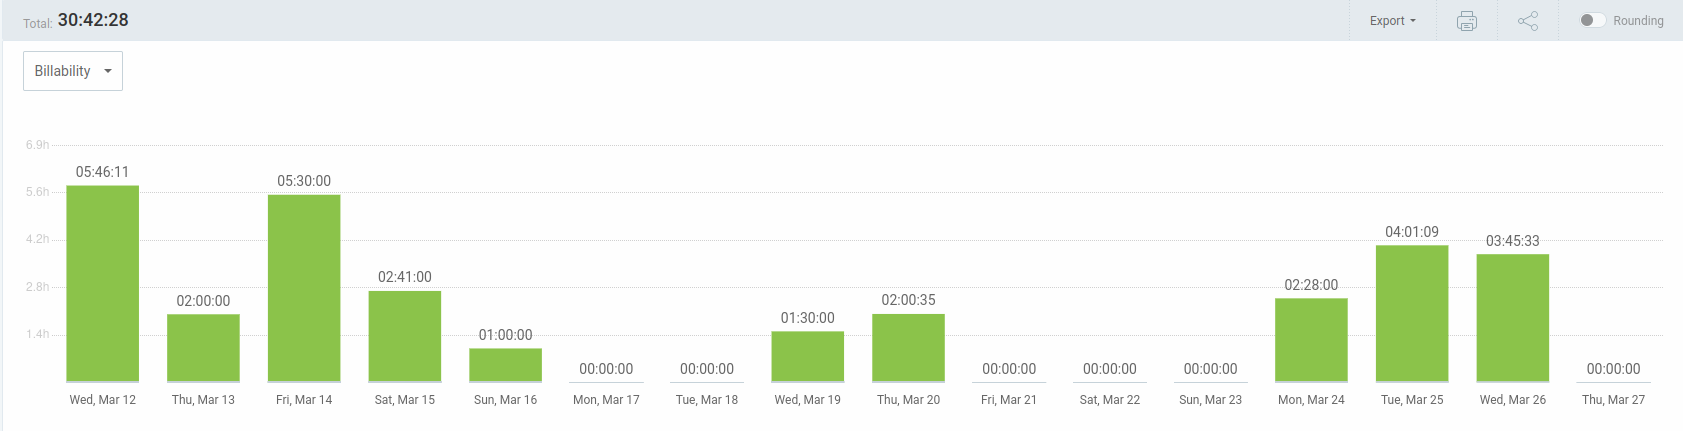
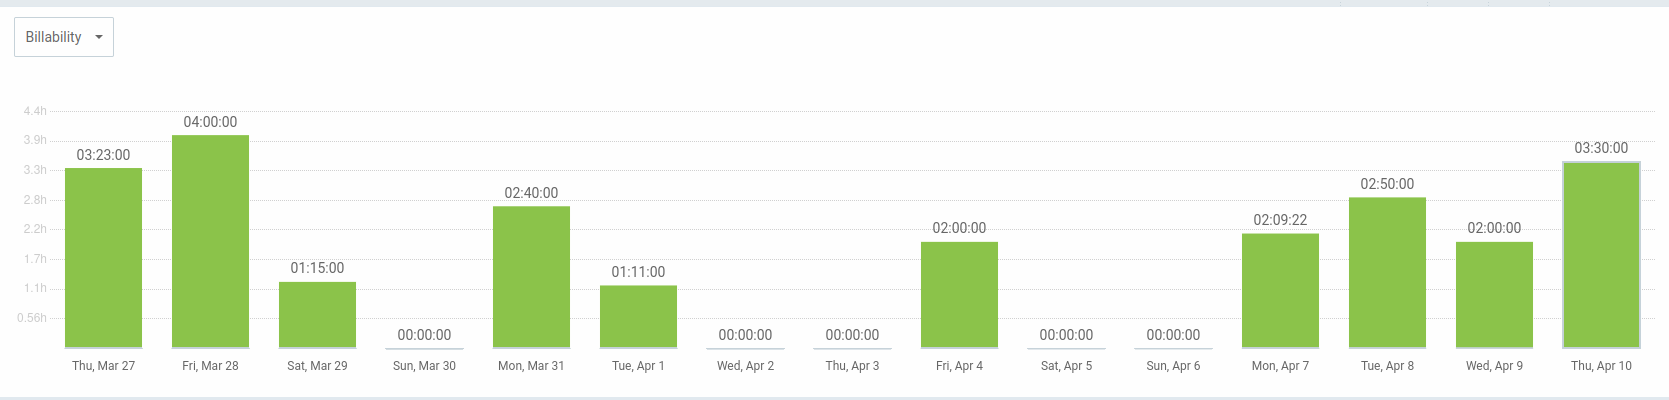
dosc(IA/Time): add docs for Sprint_3 Dani

diff --git a/docs/Sprint_3/AIusage.md b/docs/Sprint_3/AIusage.md
@@ -59,6 +59,7 @@
 |-------------|---------------|-------------------------------|-------------------------|
 | 07/04/2025  | v 1.0         | Versión inicial del documento | Daniel Flores de Francisco |
 | 08/04/2025  | v 1.1         | Informe de Luis | Luis Mellado Díaz |
+| 08/04/2025  | v 1.2         | Informe de Dani | Daniel Flores de Francisco |
 
 
 ---
@@ -178,13 +179,12 @@ Listar los prompts que fueron más efectivos para completar las tareas:
 #### 1. Información General
 
 - **Nombre del programador:** Daniel Flores de Francisco
-- **Sprint:** Sprint 2
+- **Sprint:** Sprint 3
 - **Rol en el proyecto:** PM, programador backend, documentación y devops
 
 #### 2. Tipo de Tareas en las que se Utilizó IA
 
 - Generación de código (x)
-- Generación de documentación (x)
 
 #### 3. Uso de IA en las Tareas
 
@@ -193,28 +193,22 @@ Para cada tarea en la que se usó IA, completar la siguiente tabla:
 | Tarea | Herramienta utilizada | Descripción del uso de IA |
 |-------|-----------------------|---------------------------|
 | Asesoramiento de cómo escribir el Workflow. | ChatGPT | Usada para ver los workflows usados, sintaxis y corrección de errores |
-| Conversión a markdown | ChatGPT | Recibiendo el documento en word o pdf se le pide pasarlo a markdown |
-| Plantilla y modificaciones del Customer Agreement | DeepSeek | Usada para hacer más largo el Customer Agreement e identificar unfair clauses |
-| Búsqueda de Plataformas de Análisis de Código | ChatGPT | Usada como asesoría de las distintas plataformas de análisis de código estático y sus integración usando GitHub Actions. Apoyado en videos de Youtube |
-
 
 
 #### 4. Impacto en Productividad
 
-- **Horas estimadas ahorradas en comparación con trabajo manual:** 5 - 7
-- **Comparación con trabajo sin IA:** El uso de la IA en este sprint me ha ahorrado mucho tiempo a la hora de ponerme a configurar el CI. Con la documentación tambien me ha ayudado ha pasar documentos a formato Markdown y a perfeccionarlos
+- **Horas estimadas ahorradas en comparación con trabajo manual:** 2 - 3
+- **Comparación con trabajo sin IA:** El uso de la IA en este sprint me ha ahorrado mucho tiempo a la hora de ponerme a configurar el CI. Si que es verdad que este Sprint 3 lo he usado super poco, pues no he tenido tanta necesidad
 
 #### 5. Prompts Utilizados
 
 Listar los prompts que fueron más efectivos para completar las tareas:
 
-1. ¿Cómo iniciarias un servidor en Sonarqube?
-2. Hazme los cambios necesarios para que sea compatible con la versión de (paqiete) (fichero)
-3. Giving this template of customer agreement, and this document about my business, fullfil this agreement using this template and the information of my business doc
+1. ¿Qué error me esta dando este fichero y cómo lo soluciono? (fichero)
 
 #### 6. Problemas Encontrados y Limitaciones
 
-- **Limitaciones detectadas en la IA:** Le falta mucho contexto. Muchas veces patina y en el CI te da mal la sintaxis, paquetes y versiones incompatibles y más cosas.
+- **Limitaciones detectadas en la IA:** En el CI te da mal la sintaxis, paquetes y versiones incompatibles y más cosas.
 
 #### 7. Evaluación General
 

diff --git a/docs/Sprint_3/timeEffortReport.md b/docs/Sprint_3/timeEffortReport.md
@@ -408,28 +408,25 @@
 
 ## Reporte de tiempo de Daniel Flores de Francisco
 
-**Periodo:** 12/03/2025 - 26/03/2025
-**Total de tiempo trabajado:** 30:42:28
+**Periodo:** 27/03/2025 - 10/04/2025
+**Total de tiempo trabajado:** 24:58:22 
 
 ### Proyecto Pawtel - Distribución del tiempo
 
-| Descripción | Duración |
-|-------------|---------|
-| Delirvery Sprint 1 (No se conto en el anterior sprint)                                      | 06:00:00   |
-| Workflow for testing django                              | 01:41:00   |
-| EditHotelScreen fix. Double Requests fix.               | 02:47:00   |
-| Preparar presentación                                    | 01:30:00   |
-| Presentation. Arreglar petición back. Arreglar y mergear CI. Arreglar Queries. Aumento Calidad de Código. | 02:13:37   |
-| Presentacio. Slides                                      | 02:00:35   |
-| Integración con Codacy y Workflow                       | 01:30:00   |
-| Terminos y Condiciones. Back                            | 01:47:32   |
-| Clase ISPP                                              | 04:00:00   |
-| Delivery Sprint 2  Preparación de docs                                     | 00:34:00   |
-| Reunion Sprint 2                                        | 01:00:00   |
-| Metrics with SonarQube                                  | 01:00:00   |
-| Terminando documentación delivery                       | 01:46:11   |
-| Customer Agreement, Presentation and Feedback. Arreglando CI | 01:54:00   |
-| QA de las PR. Fixing Codacy Issues | 00:58:33   |
+| Tarea                                             | Tiempo    |
+|---------------------------------------------------|-----------|
+| Test EndToEnd Playwright                          | 01:59:00  |
+| Ayudando Sergio Bug Finding                       | 00:36:00  |
+| Delyvery and testing Pawtel                       | 03:30:00  |
+| Playwright testing                                | 02:14:00  |
+| USAGEmd for Playwright (PR review) and Customize Codacy | 01:11:00  |
+| Playwright workflow configuration                 | 00:41:00  |
+| Sprint 3 Documents Organization. Fixing minor issues | 02:09:22  |
+| Clase ISPP                                        | 04:00:00  |
+| Reunión Inicial Sprint 3                          | 01:15:00  |
+| Playwright testing more screens                   | 02:00:00  |
+| Usuarios piloto encuesta                          | 02:00:00  |
+| Fixing frontend and deploy of Sprint 2            | 03:23:00  |
 
 ![grafico-de-tiempos](graficas/dani.png)
 ---
